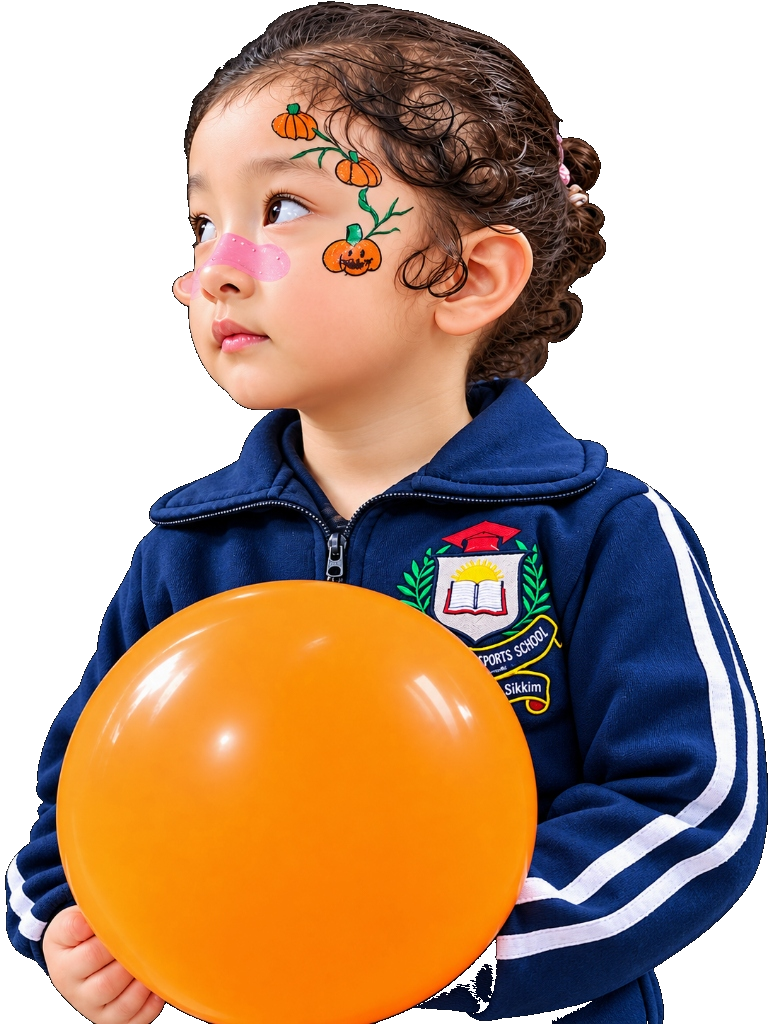
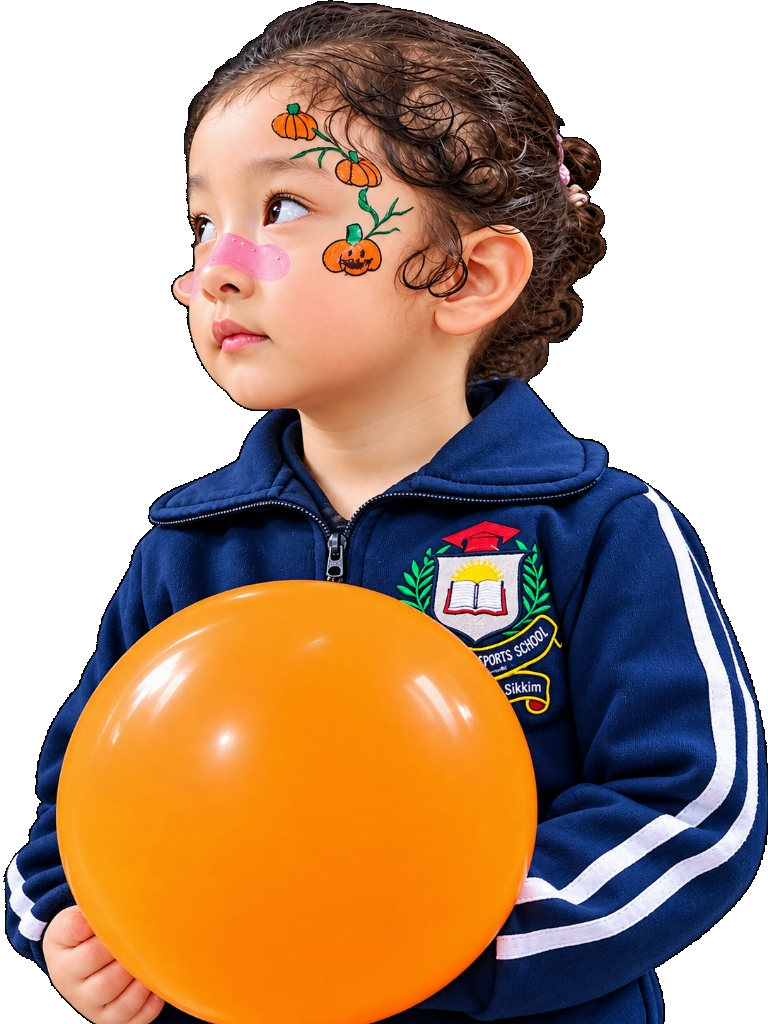
Fix cutout damage: eliminate transparent holes in jacket folds, preserve crisp 100% solid student portrait

Changed region(s): [[0.5, 0.9062, 0.75, 1.0], [0.1875, 0.9688, 0.25, 1.0]]

diff --git a/src/data/schoolData.ts b/src/data/schoolData.ts
@@ -51,7 +51,7 @@ export const SCHOOL_INFO = {
   currentLocation: 'Kyongsa, Near District Court, Gayzing, West Sikkim',
   gradesOffered: 'Playgroup to Class V',
   crestUrl: '/assets/aistudio/Kidzee_Globus_School_Crest_3b98668b.png',
-  heroPhotoUrl: '/assets/aistudio/WhatsApp_Image_2026-11-19_at_2.30.21_PM_6f1b2386.jpeg',
+  heroPhotoUrl: '/assets/aistudio/Kidzee_Hero_Student_Cutout.png',
   aboutPhotoUrl: '/assets/aistudio/WhatsApp_Image_2026-11-19_at_2.30.20_PM__1__2e5c8f7c.jpeg',
   schoolHours: 'Mon – Sat · 8:30 AM to 2:30 PM',
   admissionsDeskHours: 'Mon – Sat · 9:00 AM to 3:30 PM',
